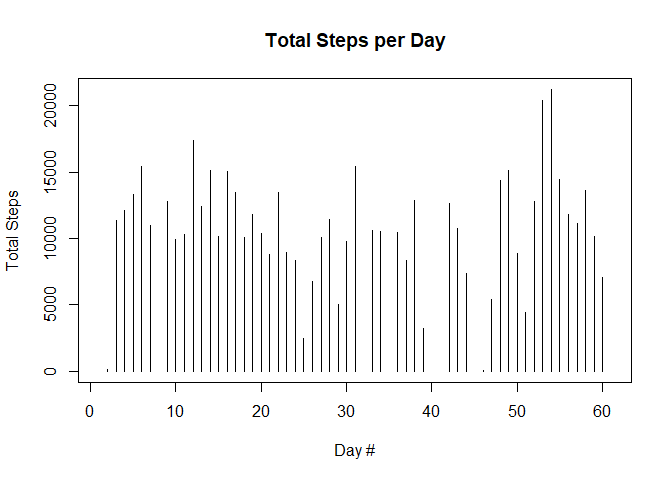
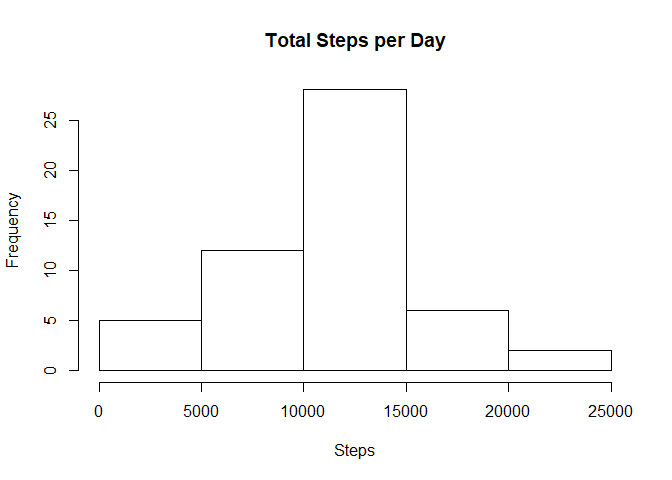
Final Commit
Corrected graph errors

diff --git a/PA1_template.html b/PA1_template.html
@@ -164,15 +164,15 @@ activ &lt;- group_by(activ,date)
 
 sumsteps &lt;- summarise_each(activ, funs(sum), steps) 
 with(sumsteps, 
-     plot(1:length(date), steps, type = &quot;h&quot;, xlab = &quot;Day #&quot;, ylab = &quot;Total Steps&quot;, 
+     hist(steps, xlab = &quot;Steps&quot;, ylab = &quot;Frequency&quot;, 
           main = &quot;Total Steps per Day&quot;))</code></pre>
[2 lines of base64/hex data omitted]
 <ol start="3" style="list-style-type: decimal">
 <li>Including a quick summary for the mean and median steps (NAs removed automatically)</li>
 </ol>
-<pre class="r"><code>with(sumsteps, summary(steps))</code></pre>
-<pre><code>##    Min. 1st Qu.  Median    Mean 3rd Qu.    Max.    NA's 
-##      41    8841   10760   10770   13290   21190       8</code></pre>
+<pre class="r"><code>with(na.omit(sumsteps), summary(steps))</code></pre>
+<pre><code>##    Min. 1st Qu.  Median    Mean 3rd Qu.    Max. 
+##      41    8841   10760   10770   13290   21190</code></pre>
 <ol start="4" style="list-style-type: decimal">
 <li>The average steps taken in each interval, across all 61 days. Note: NAs had to be removed for summarise_each, which was 8 full days.</li>
 </ol>
@@ -212,9 +212,9 @@ fulldata&lt;- fulldata[with(fulldata, order(date,interval)),] #ordered by date a
 </ol>
 <pre class="r"><code>sumfullsteps &lt;- summarise_each(fulldata, funs(sum), steps) 
 with(sumfullsteps, 
-     plot(1:length(date), steps, type = &quot;h&quot;, xlab = &quot;Day #&quot;, ylab = &quot;Total Steps&quot;, 
+     hist(steps, xlab = &quot;Steps&quot;, ylab = &quot;Frequency&quot;, 
           main = &quot;Total Steps per Day (Imputed Data)&quot;))</code></pre>
[2 lines of base64/hex data omitted]
 <p>There is a very small difference in Median and Mean steps taken.</p>
 <p>NA removed: MEDIAN = 10760, MEAN = 10770 IMPUTED: MEDIAN = 10766, MEAN = 10766</p>
 <pre class="r"><code>    with(sumfullsteps, summary(sumfullsteps))</code></pre>

diff --git a/PA1_template.md b/PA1_template.md
@@ -66,7 +66,7 @@ activ <- group_by(activ,date)
 
 sumsteps <- summarise_each(activ, funs(sum), steps) 
 with(sumsteps, 
-     plot(1:length(date), steps, type = "h", xlab = "Day #", ylab = "Total Steps", 
+     hist(steps, xlab = "Steps", ylab = "Frequency", 
           main = "Total Steps per Day"))
 ```
 
@@ -76,12 +76,12 @@ with(sumsteps,
 
 
 ```r
-with(sumsteps, summary(steps))
+with(na.omit(sumsteps), summary(steps))
 ```
 
 ```
-##    Min. 1st Qu.  Median    Mean 3rd Qu.    Max.    NA's 
-##      41    8841   10760   10770   13290   21190       8
+##    Min. 1st Qu.  Median    Mean 3rd Qu.    Max. 
+##      41    8841   10760   10770   13290   21190
 ```
 
 4. The average steps taken in each interval, across all 61 days. 
@@ -147,7 +147,7 @@ on matching each table's interval column, I just don't know how to code that eff
 ```r
 sumfullsteps <- summarise_each(fulldata, funs(sum), steps) 
 with(sumfullsteps, 
-     plot(1:length(date), steps, type = "h", xlab = "Day #", ylab = "Total Steps", 
+     hist(steps, xlab = "Steps", ylab = "Frequency", 
           main = "Total Steps per Day (Imputed Data)"))
 ```
 
